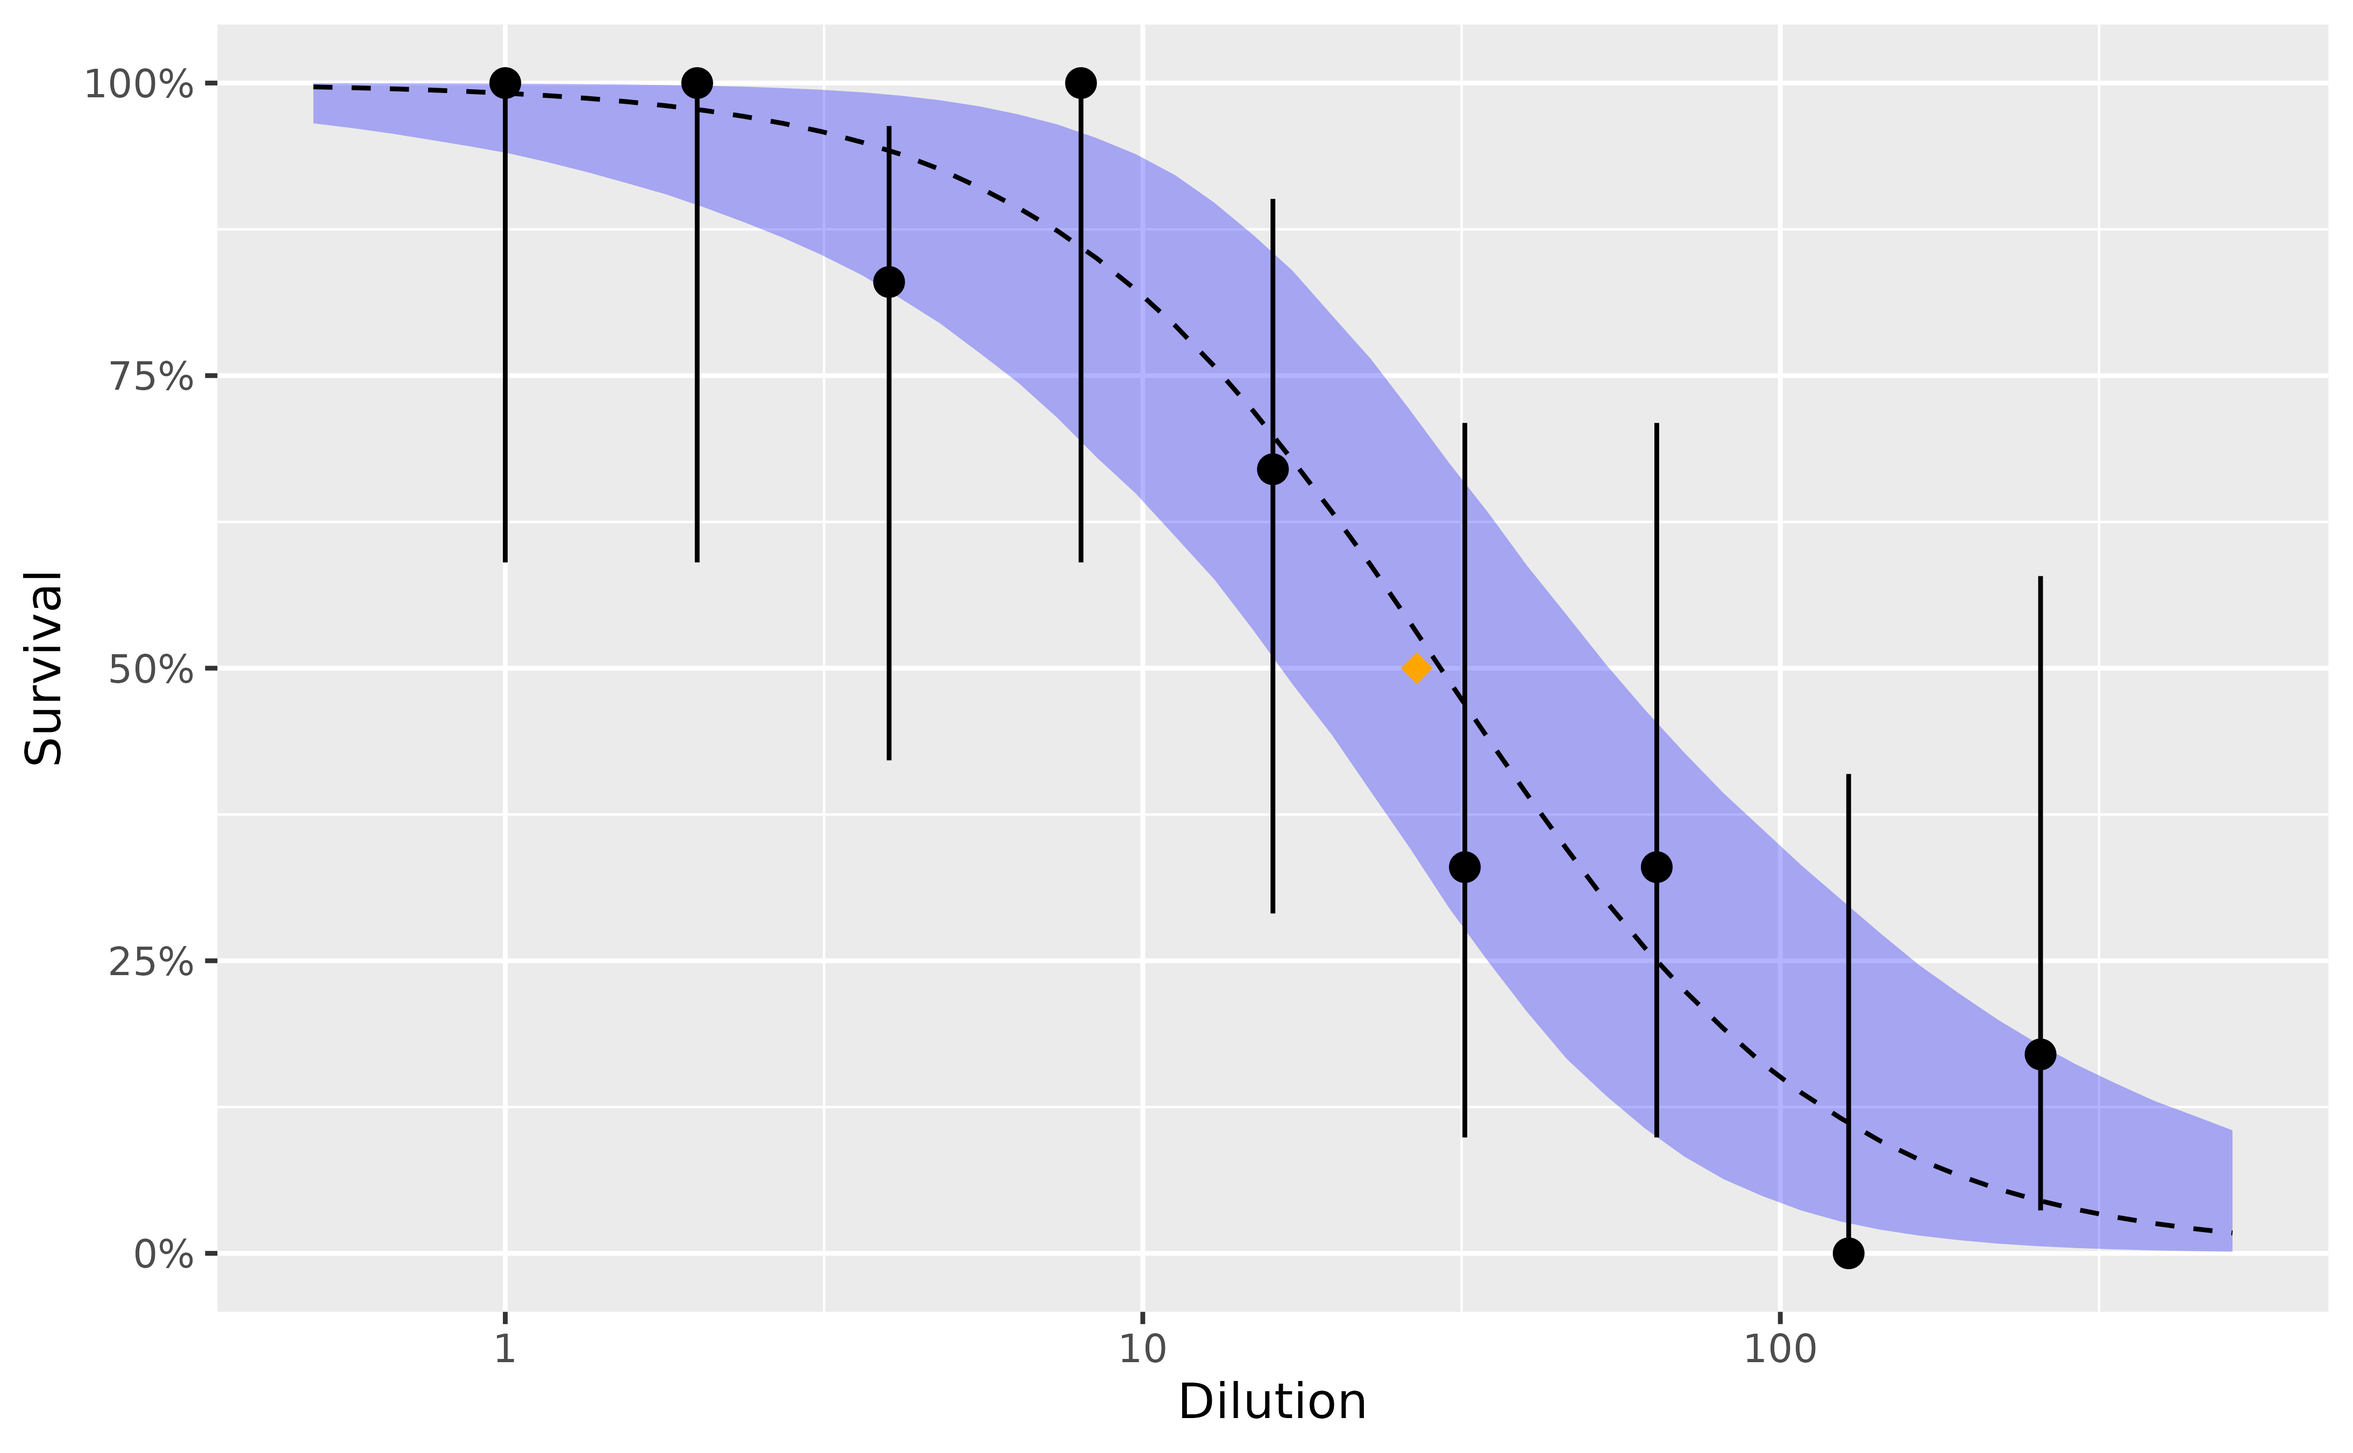
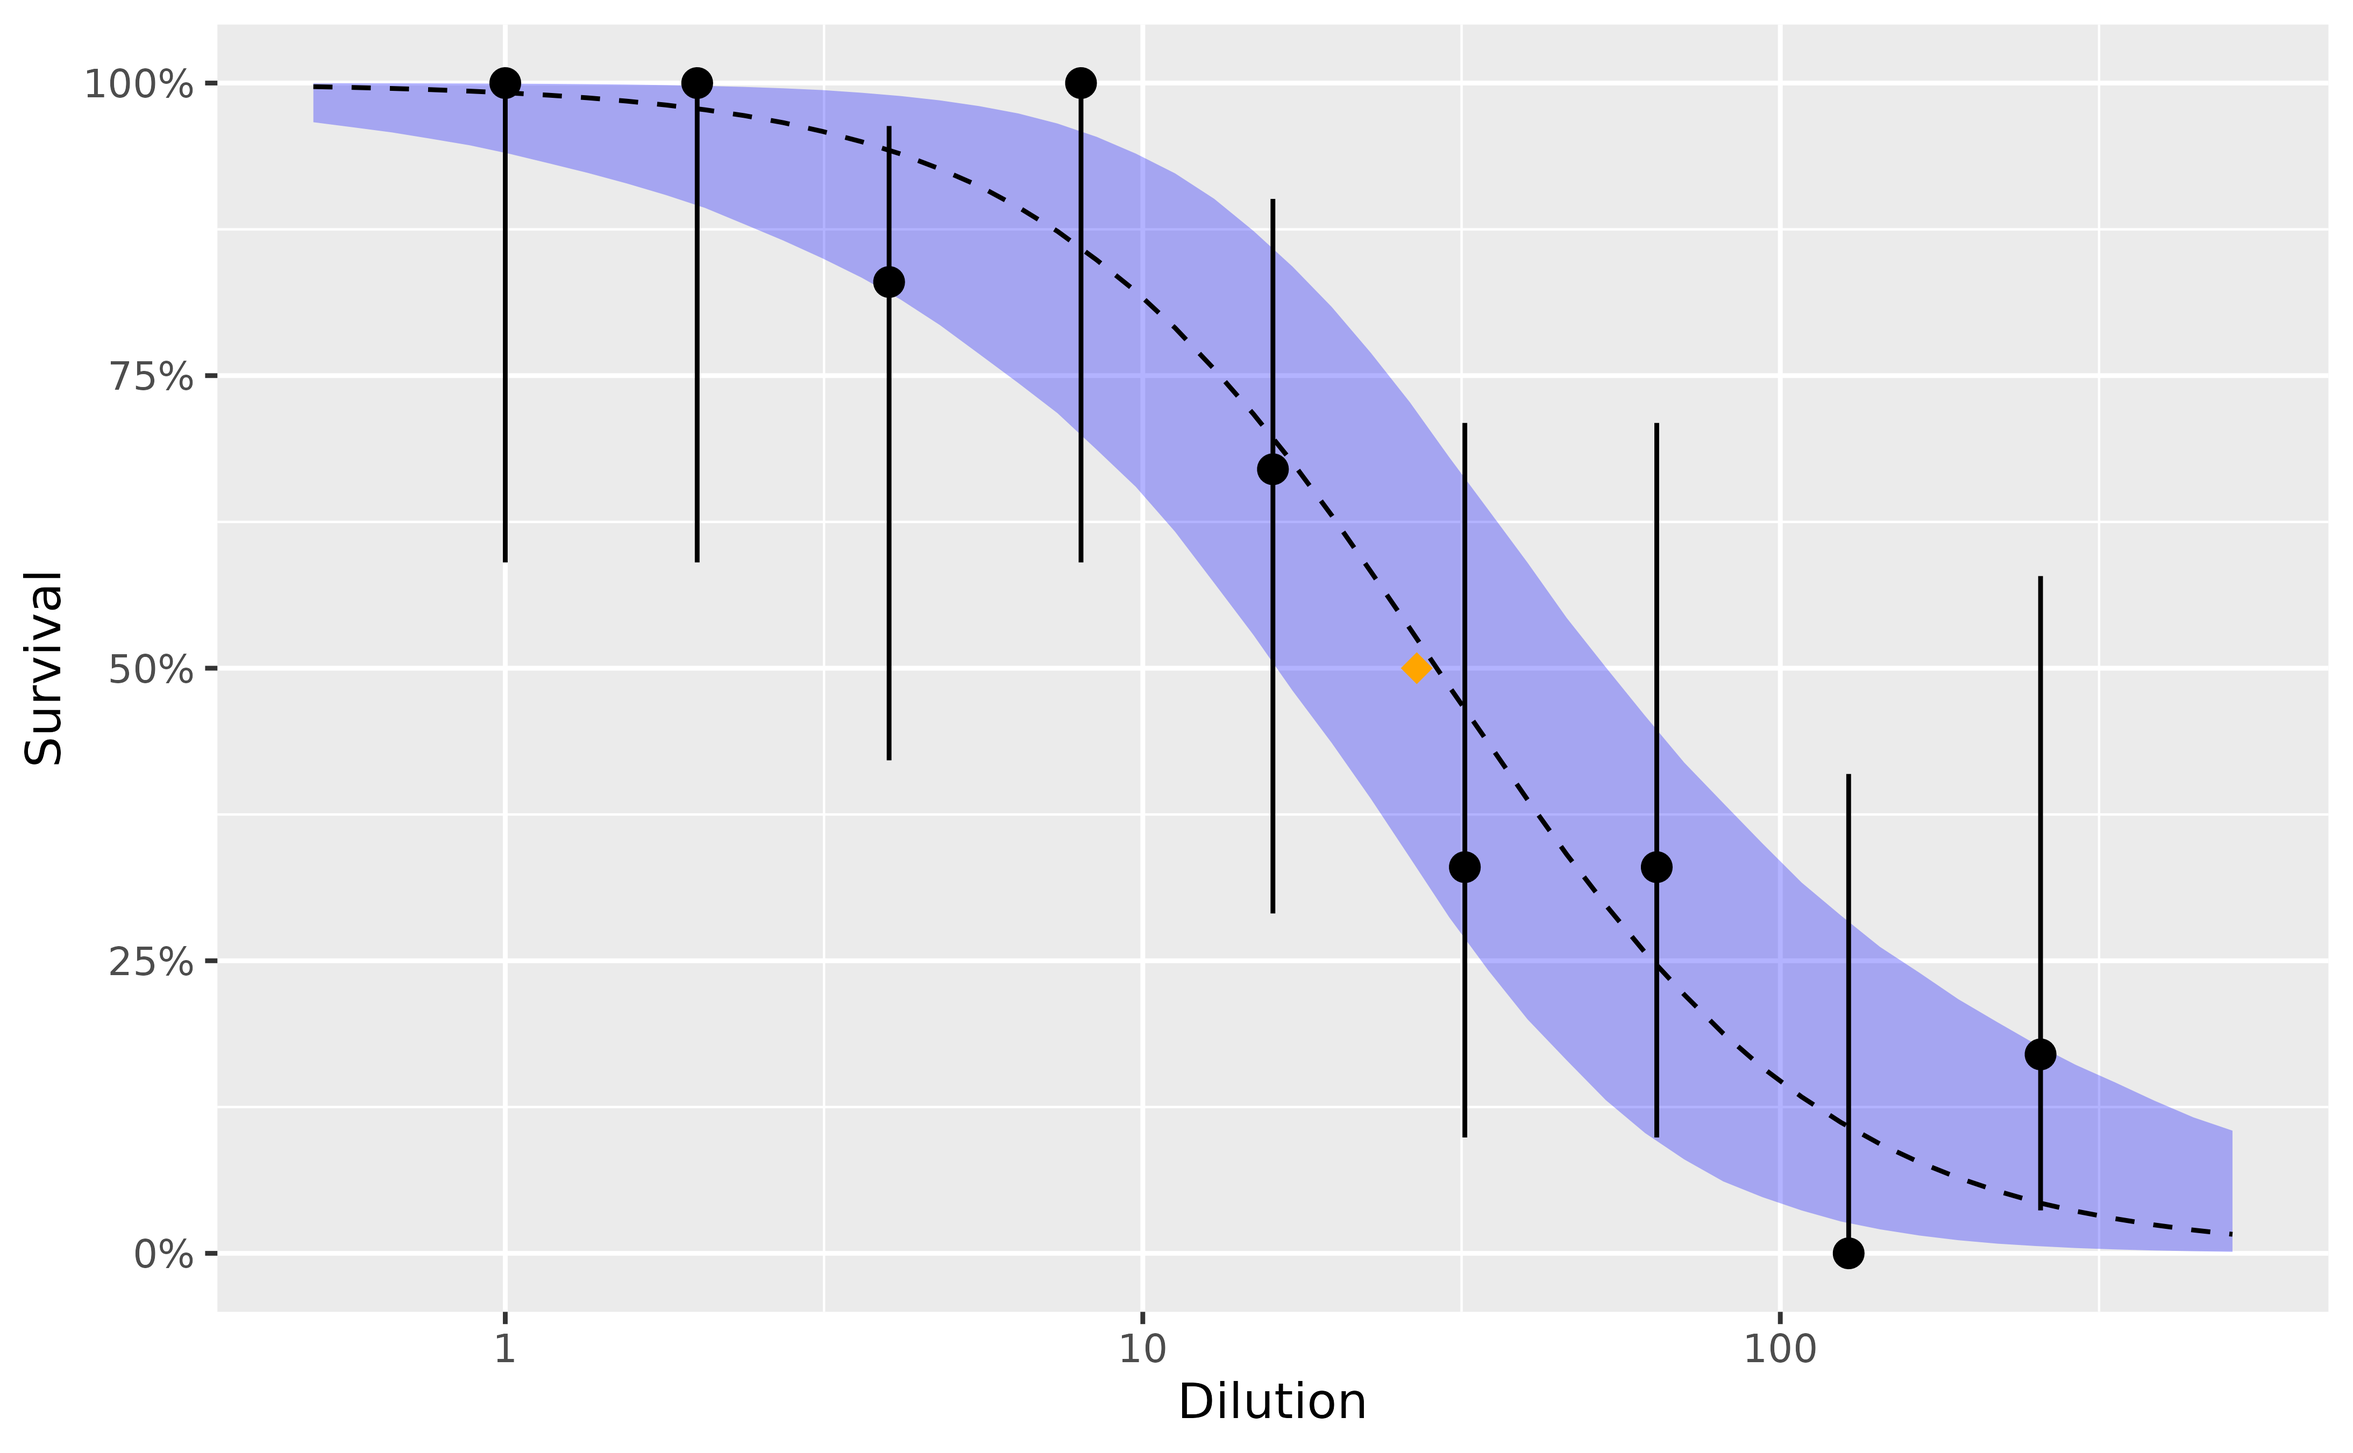
Built site for bayesianTiterCalc: 0.0.0.9000@73212a7

diff --git a/reference/optimizing_stan.html b/reference/optimizing_stan.html
@@ -88,8 +88,8 @@
 <span class="r-out co"><span class="r-pr">#&gt;</span> </span>
 <span class="r-out co"><span class="r-pr">#&gt;</span> SAMPLING FOR MODEL 'modelwithppc' NOW (CHAIN 1).</span>
 <span class="r-out co"><span class="r-pr">#&gt;</span> Chain 1: </span>
-<span class="r-out co"><span class="r-pr">#&gt;</span> Chain 1: Gradient evaluation took 0.000113 seconds</span>
-<span class="r-out co"><span class="r-pr">#&gt;</span> Chain 1: 1000 transitions using 10 leapfrog steps per transition would take 1.13 seconds.</span>
+<span class="r-out co"><span class="r-pr">#&gt;</span> Chain 1: Gradient evaluation took 0.000121 seconds</span>
+<span class="r-out co"><span class="r-pr">#&gt;</span> Chain 1: 1000 transitions using 10 leapfrog steps per transition would take 1.21 seconds.</span>
 <span class="r-out co"><span class="r-pr">#&gt;</span> Chain 1: Adjust your expectations accordingly!</span>
 <span class="r-out co"><span class="r-pr">#&gt;</span> Chain 1: </span>
 <span class="r-out co"><span class="r-pr">#&gt;</span> Chain 1: </span>
@@ -114,15 +114,15 @@
 <span class="r-out co"><span class="r-pr">#&gt;</span> Chain 1: Iteration: 90 / 100 [ 90%]  (Sampling)</span>
 <span class="r-out co"><span class="r-pr">#&gt;</span> Chain 1: Iteration: 100 / 100 [100%]  (Sampling)</span>
 <span class="r-out co"><span class="r-pr">#&gt;</span> Chain 1: </span>
-<span class="r-out co"><span class="r-pr">#&gt;</span> Chain 1:  Elapsed Time: 0.047958 seconds (Warm-up)</span>
-<span class="r-out co"><span class="r-pr">#&gt;</span> Chain 1:                0.035691 seconds (Sampling)</span>
-<span class="r-out co"><span class="r-pr">#&gt;</span> Chain 1:                0.083649 seconds (Total)</span>
+<span class="r-out co"><span class="r-pr">#&gt;</span> Chain 1:  Elapsed Time: 0.073846 seconds (Warm-up)</span>
+<span class="r-out co"><span class="r-pr">#&gt;</span> Chain 1:                0.097648 seconds (Sampling)</span>
+<span class="r-out co"><span class="r-pr">#&gt;</span> Chain 1:                0.171494 seconds (Total)</span>
 <span class="r-out co"><span class="r-pr">#&gt;</span> Chain 1: </span>
 <span class="r-out co"><span class="r-pr">#&gt;</span> </span>
 <span class="r-out co"><span class="r-pr">#&gt;</span> SAMPLING FOR MODEL 'modelwithppc' NOW (CHAIN 2).</span>
 <span class="r-out co"><span class="r-pr">#&gt;</span> Chain 2: </span>
-<span class="r-out co"><span class="r-pr">#&gt;</span> Chain 2: Gradient evaluation took 7.6e-05 seconds</span>
-<span class="r-out co"><span class="r-pr">#&gt;</span> Chain 2: 1000 transitions using 10 leapfrog steps per transition would take 0.76 seconds.</span>
+<span class="r-out co"><span class="r-pr">#&gt;</span> Chain 2: Gradient evaluation took 8e-05 seconds</span>
+<span class="r-out co"><span class="r-pr">#&gt;</span> Chain 2: 1000 transitions using 10 leapfrog steps per transition would take 0.8 seconds.</span>
 <span class="r-out co"><span class="r-pr">#&gt;</span> Chain 2: Adjust your expectations accordingly!</span>
 <span class="r-out co"><span class="r-pr">#&gt;</span> Chain 2: </span>
 <span class="r-out co"><span class="r-pr">#&gt;</span> Chain 2: </span>
@@ -147,15 +147,15 @@
 <span class="r-out co"><span class="r-pr">#&gt;</span> Chain 2: Iteration: 90 / 100 [ 90%]  (Sampling)</span>
 <span class="r-out co"><span class="r-pr">#&gt;</span> Chain 2: Iteration: 100 / 100 [100%]  (Sampling)</span>
 <span class="r-out co"><span class="r-pr">#&gt;</span> Chain 2: </span>
-<span class="r-out co"><span class="r-pr">#&gt;</span> Chain 2:  Elapsed Time: 0.053241 seconds (Warm-up)</span>
-<span class="r-out co"><span class="r-pr">#&gt;</span> Chain 2:                0.031258 seconds (Sampling)</span>
-<span class="r-out co"><span class="r-pr">#&gt;</span> Chain 2:                0.084499 seconds (Total)</span>
+<span class="r-out co"><span class="r-pr">#&gt;</span> Chain 2:  Elapsed Time: 0.051844 seconds (Warm-up)</span>
+<span class="r-out co"><span class="r-pr">#&gt;</span> Chain 2:                0.052514 seconds (Sampling)</span>
+<span class="r-out co"><span class="r-pr">#&gt;</span> Chain 2:                0.104358 seconds (Total)</span>
 <span class="r-out co"><span class="r-pr">#&gt;</span> Chain 2: </span>
 <span class="r-out co"><span class="r-pr">#&gt;</span> </span>
 <span class="r-out co"><span class="r-pr">#&gt;</span> SAMPLING FOR MODEL 'modelwithppc' NOW (CHAIN 3).</span>
 <span class="r-out co"><span class="r-pr">#&gt;</span> Chain 3: </span>
-<span class="r-out co"><span class="r-pr">#&gt;</span> Chain 3: Gradient evaluation took 7.5e-05 seconds</span>
-<span class="r-out co"><span class="r-pr">#&gt;</span> Chain 3: 1000 transitions using 10 leapfrog steps per transition would take 0.75 seconds.</span>
+<span class="r-out co"><span class="r-pr">#&gt;</span> Chain 3: Gradient evaluation took 6.3e-05 seconds</span>
+<span class="r-out co"><span class="r-pr">#&gt;</span> Chain 3: 1000 transitions using 10 leapfrog steps per transition would take 0.63 seconds.</span>
 <span class="r-out co"><span class="r-pr">#&gt;</span> Chain 3: Adjust your expectations accordingly!</span>
 <span class="r-out co"><span class="r-pr">#&gt;</span> Chain 3: </span>
 <span class="r-out co"><span class="r-pr">#&gt;</span> Chain 3: </span>
@@ -180,15 +180,15 @@
 <span class="r-out co"><span class="r-pr">#&gt;</span> Chain 3: Iteration: 90 / 100 [ 90%]  (Sampling)</span>
 <span class="r-out co"><span class="r-pr">#&gt;</span> Chain 3: Iteration: 100 / 100 [100%]  (Sampling)</span>
 <span class="r-out co"><span class="r-pr">#&gt;</span> Chain 3: </span>
-<span class="r-out co"><span class="r-pr">#&gt;</span> Chain 3:  Elapsed Time: 0.069929 seconds (Warm-up)</span>
-<span class="r-out co"><span class="r-pr">#&gt;</span> Chain 3:                0.045034 seconds (Sampling)</span>
-<span class="r-out co"><span class="r-pr">#&gt;</span> Chain 3:                0.114963 seconds (Total)</span>
+<span class="r-out co"><span class="r-pr">#&gt;</span> Chain 3:  Elapsed Time: 0.04429 seconds (Warm-up)</span>
+<span class="r-out co"><span class="r-pr">#&gt;</span> Chain 3:                0.042656 seconds (Sampling)</span>
+<span class="r-out co"><span class="r-pr">#&gt;</span> Chain 3:                0.086946 seconds (Total)</span>
 <span class="r-out co"><span class="r-pr">#&gt;</span> Chain 3: </span>
 <span class="r-out co"><span class="r-pr">#&gt;</span> </span>
 <span class="r-out co"><span class="r-pr">#&gt;</span> SAMPLING FOR MODEL 'modelwithppc' NOW (CHAIN 4).</span>
 <span class="r-out co"><span class="r-pr">#&gt;</span> Chain 4: </span>
-<span class="r-out co"><span class="r-pr">#&gt;</span> Chain 4: Gradient evaluation took 6.9e-05 seconds</span>
-<span class="r-out co"><span class="r-pr">#&gt;</span> Chain 4: 1000 transitions using 10 leapfrog steps per transition would take 0.69 seconds.</span>
+<span class="r-out co"><span class="r-pr">#&gt;</span> Chain 4: Gradient evaluation took 7.4e-05 seconds</span>
+<span class="r-out co"><span class="r-pr">#&gt;</span> Chain 4: 1000 transitions using 10 leapfrog steps per transition would take 0.74 seconds.</span>
 <span class="r-out co"><span class="r-pr">#&gt;</span> Chain 4: Adjust your expectations accordingly!</span>
 <span class="r-out co"><span class="r-pr">#&gt;</span> Chain 4: </span>
 <span class="r-out co"><span class="r-pr">#&gt;</span> Chain 4: </span>
@@ -213,9 +213,9 @@
 <span class="r-out co"><span class="r-pr">#&gt;</span> Chain 4: Iteration: 90 / 100 [ 90%]  (Sampling)</span>
 <span class="r-out co"><span class="r-pr">#&gt;</span> Chain 4: Iteration: 100 / 100 [100%]  (Sampling)</span>
 <span class="r-out co"><span class="r-pr">#&gt;</span> Chain 4: </span>
-<span class="r-out co"><span class="r-pr">#&gt;</span> Chain 4:  Elapsed Time: 0.169084 seconds (Warm-up)</span>
-<span class="r-out co"><span class="r-pr">#&gt;</span> Chain 4:                0.126374 seconds (Sampling)</span>
-<span class="r-out co"><span class="r-pr">#&gt;</span> Chain 4:                0.295458 seconds (Total)</span>
+<span class="r-out co"><span class="r-pr">#&gt;</span> Chain 4:  Elapsed Time: 0.053698 seconds (Warm-up)</span>
+<span class="r-out co"><span class="r-pr">#&gt;</span> Chain 4:                0.063899 seconds (Sampling)</span>
+<span class="r-out co"><span class="r-pr">#&gt;</span> Chain 4:                0.117597 seconds (Total)</span>
 <span class="r-out co"><span class="r-pr">#&gt;</span> Chain 4: </span>
 <span class="r-wrn co"><span class="r-pr">#&gt;</span> <span class="warning">Warning: </span>There were 122 divergent transitions after warmup. See</span>
 <span class="r-wrn co"><span class="r-pr">#&gt;</span> https://mc-stan.org/misc/warnings.html#divergent-transitions-after-warmup</span>

diff --git a/reference/sampling_stan.html b/reference/sampling_stan.html
@@ -88,8 +88,8 @@
 <span class="r-out co"><span class="r-pr">#&gt;</span> </span>
 <span class="r-out co"><span class="r-pr">#&gt;</span> SAMPLING FOR MODEL 'modelwithppc' NOW (CHAIN 1).</span>
 <span class="r-out co"><span class="r-pr">#&gt;</span> Chain 1: </span>
-<span class="r-out co"><span class="r-pr">#&gt;</span> Chain 1: Gradient evaluation took 8.6e-05 seconds</span>
-<span class="r-out co"><span class="r-pr">#&gt;</span> Chain 1: 1000 transitions using 10 leapfrog steps per transition would take 0.86 seconds.</span>
+<span class="r-out co"><span class="r-pr">#&gt;</span> Chain 1: Gradient evaluation took 9.8e-05 seconds</span>
+<span class="r-out co"><span class="r-pr">#&gt;</span> Chain 1: 1000 transitions using 10 leapfrog steps per transition would take 0.98 seconds.</span>
 <span class="r-out co"><span class="r-pr">#&gt;</span> Chain 1: Adjust your expectations accordingly!</span>
 <span class="r-out co"><span class="r-pr">#&gt;</span> Chain 1: </span>
 <span class="r-out co"><span class="r-pr">#&gt;</span> Chain 1: </span>
@@ -114,11 +114,11 @@
 <span class="r-out co"><span class="r-pr">#&gt;</span> Chain 1: Iteration: 90 / 100 [ 90%]  (Sampling)</span>
 <span class="r-out co"><span class="r-pr">#&gt;</span> Chain 1: Iteration: 100 / 100 [100%]  (Sampling)</span>
 <span class="r-out co"><span class="r-pr">#&gt;</span> Chain 1: </span>
-<span class="r-out co"><span class="r-pr">#&gt;</span> Chain 1:  Elapsed Time: 0.05832 seconds (Warm-up)</span>
-<span class="r-out co"><span class="r-pr">#&gt;</span> Chain 1:                0.027335 seconds (Sampling)</span>
-<span class="r-out co"><span class="r-pr">#&gt;</span> Chain 1:                0.085655 seconds (Total)</span>
+<span class="r-out co"><span class="r-pr">#&gt;</span> Chain 1:  Elapsed Time: 0.064235 seconds (Warm-up)</span>
+<span class="r-out co"><span class="r-pr">#&gt;</span> Chain 1:                0.042983 seconds (Sampling)</span>
+<span class="r-out co"><span class="r-pr">#&gt;</span> Chain 1:                0.107218 seconds (Total)</span>
 <span class="r-out co"><span class="r-pr">#&gt;</span> Chain 1: </span>
-<span class="r-wrn co"><span class="r-pr">#&gt;</span> <span class="warning">Warning: </span>There were 42 divergent transitions after warmup. See</span>
+<span class="r-wrn co"><span class="r-pr">#&gt;</span> <span class="warning">Warning: </span>There were 27 divergent transitions after warmup. See</span>
 <span class="r-wrn co"><span class="r-pr">#&gt;</span> https://mc-stan.org/misc/warnings.html#divergent-transitions-after-warmup</span>
 <span class="r-wrn co"><span class="r-pr">#&gt;</span> to find out why this is a problem and how to eliminate them.</span>
 <span class="r-wrn co"><span class="r-pr">#&gt;</span> <span class="warning">Warning: </span>Examine the pairs() plot to diagnose sampling problems</span>

diff --git a/articles/bayestitercalc.html b/articles/bayestitercalc.html
@@ -205,9 +205,9 @@ text-align: justify}
 <span><span class="co">#&gt; post-warmup draws per chain=1000, total post-warmup draws=4000.</span></span>
 <span><span class="co">#&gt; </span></span>
 <span><span class="co">#&gt;       mean se_mean   sd  2.5%   25%   50%   75% 97.5% n_eff Rhat</span></span>
-<span><span class="co">#&gt; ed50 30.73    0.16 9.97 16.45 24.01 29.31 35.45 53.86  3673    1</span></span>
+<span><span class="co">#&gt; ed50 30.49    0.15 9.55 16.26 23.94 28.96 35.26 53.37  4018    1</span></span>
 <span><span class="co">#&gt; </span></span>
-<span><span class="co">#&gt; Samples were drawn using NUTS(diag_e) at Tue Nov 15 09:18:02 2022.</span></span>
+<span><span class="co">#&gt; Samples were drawn using NUTS(diag_e) at Tue Nov 15 09:21:33 2022.</span></span>
 <span><span class="co">#&gt; For each parameter, n_eff is a crude measure of effective sample size,</span></span>
 <span><span class="co">#&gt; and Rhat is the potential scale reduction factor on split chains (at </span></span>
 <span><span class="co">#&gt; convergence, Rhat=1).</span></span>
@@ -216,10 +216,10 @@ text-align: justify}
 <span><span class="co">#&gt; 4 chains, each with iter=2000; warmup=1000; thin=1; </span></span>
 <span><span class="co">#&gt; post-warmup draws per chain=1000, total post-warmup draws=4000.</span></span>
 <span><span class="co">#&gt; </span></span>
-<span><span class="co">#&gt;     mean se_mean   sd 2.5%  25%  50%   75% 97.5% n_eff Rhat</span></span>
-<span><span class="co">#&gt; phi 8.28    0.11 4.09 2.88 5.32 7.43 10.33  18.6  1315    1</span></span>
+<span><span class="co">#&gt;     mean se_mean   sd 2.5% 25%  50%   75% 97.5% n_eff Rhat</span></span>
+<span><span class="co">#&gt; phi 8.17    0.11 4.03 2.82 5.3 7.38 10.13 18.16  1337    1</span></span>
 <span><span class="co">#&gt; </span></span>
-<span><span class="co">#&gt; Samples were drawn using NUTS(diag_e) at Tue Nov 15 09:18:02 2022.</span></span>
+<span><span class="co">#&gt; Samples were drawn using NUTS(diag_e) at Tue Nov 15 09:21:33 2022.</span></span>
 <span><span class="co">#&gt; For each parameter, n_eff is a crude measure of effective sample size,</span></span>
 <span><span class="co">#&gt; and Rhat is the potential scale reduction factor on split chains (at </span></span>
 <span><span class="co">#&gt; convergence, Rhat=1).</span></span>
